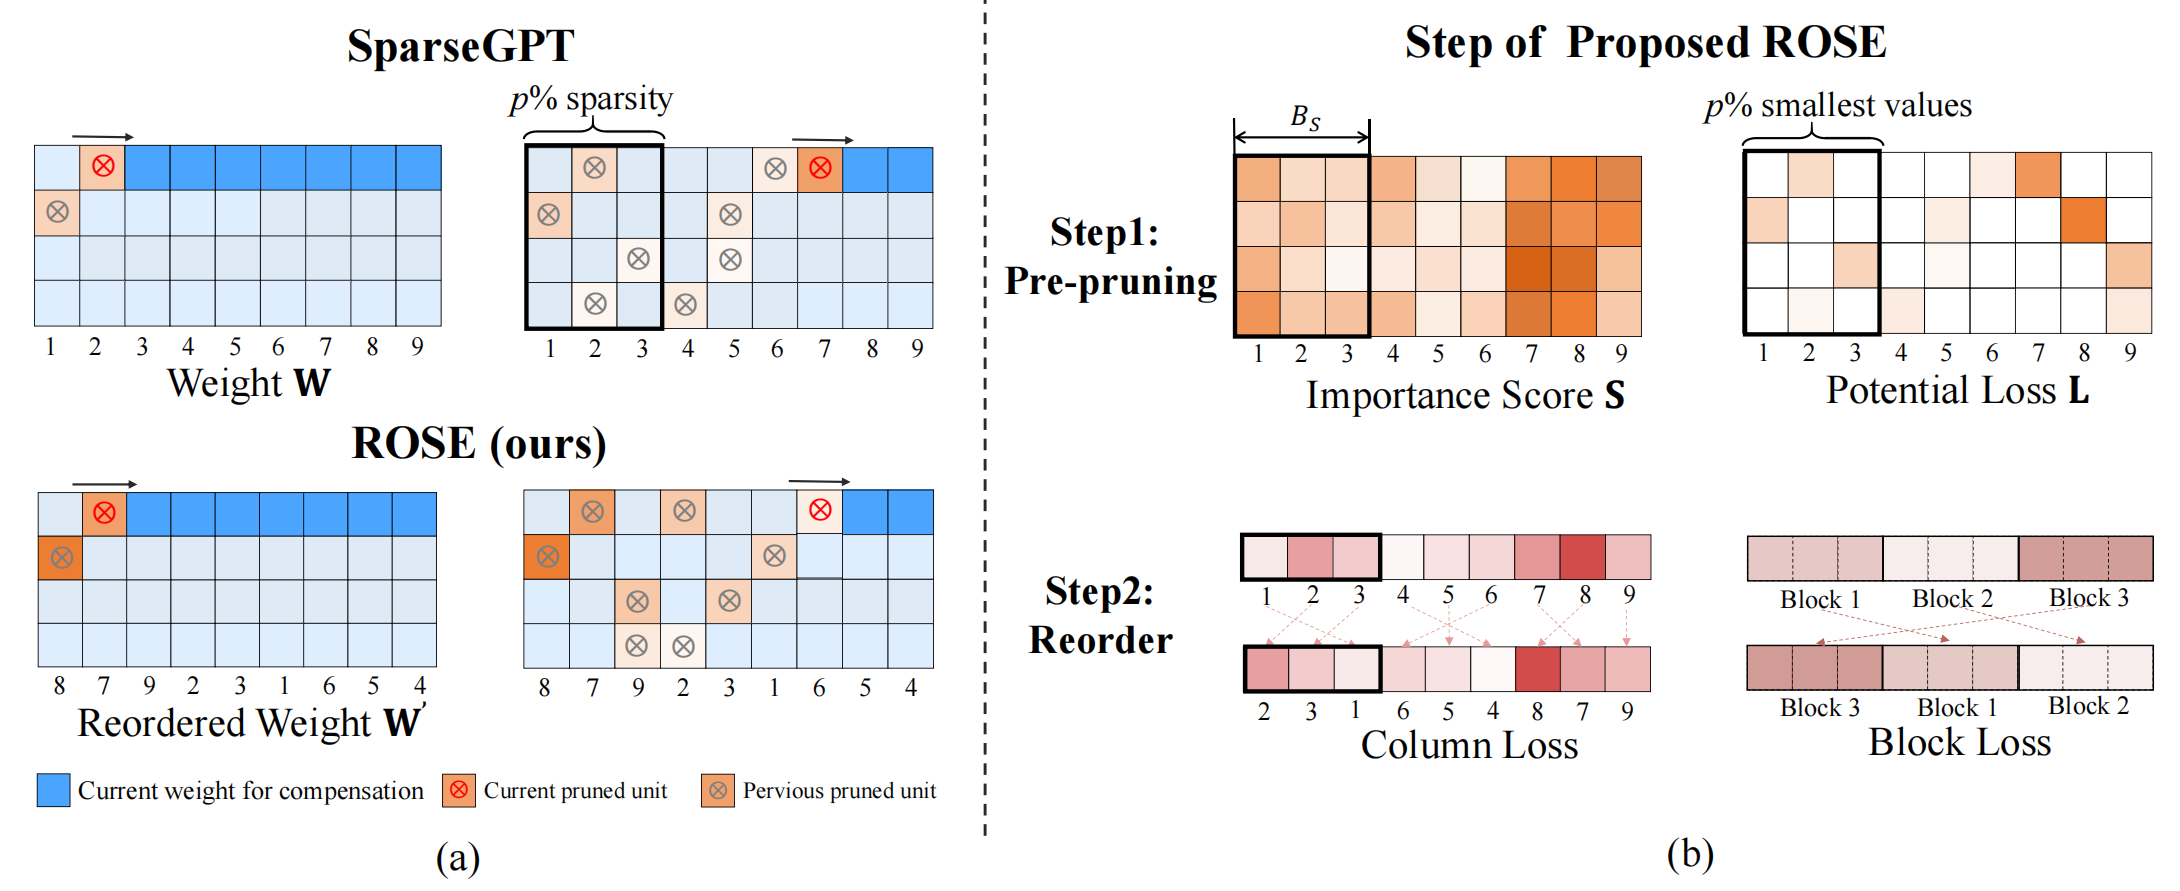
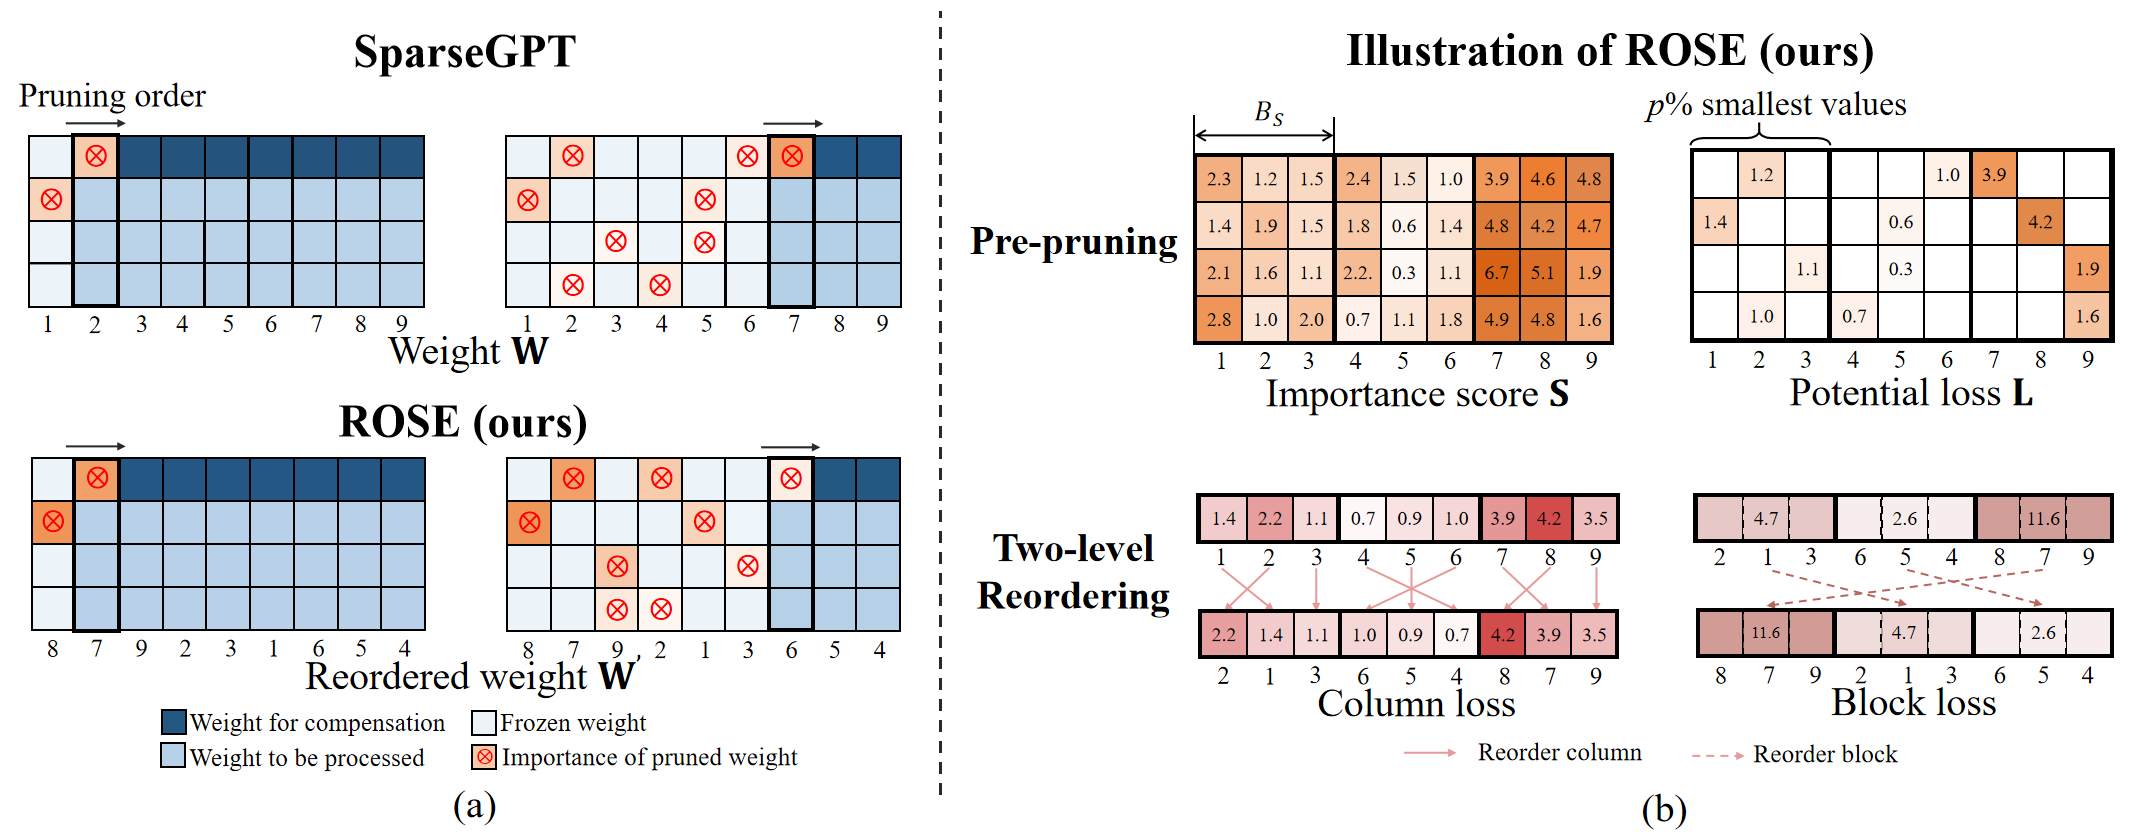
update

diff --git a/README.md b/README.md
@@ -2,22 +2,21 @@
 <img src="imgs/rose.png" width="20%"> <br>
 </p>
 
-
 <div align="center">
 
 # ROSE: Reordered SparseGPT for More Accurate One-Shot Large Language Models Pruning
 
-<h3> CPAL 2026</h3>
+<h3> CPAL 2026 oral</h3>
 
 <a href="https://arxiv.org/abs/2510.06751">
 <img alt="Paper" src="https://img.shields.io/badge/Paper-Arxiv%20Link-light">
-<a href="https://sunshine-0903.github.io/ROSE-Webpage/">
+<a href="https://mingluo-su.github.io/ROSE-Webpage/">
 <img alt="Webpage" src="https://img.shields.io/badge/Webpage-blue">
 <a href="https://opensource.org/licenses/Apache-2.0">
 <img alt="Code License" src="https://img.shields.io/badge/Code%20License-Apache_2.0-yellow.svg">
 </a>
 
-**[Mingluo Su](https://sunshine-0903.github.io/)**<sup>1</sup>, **[Huan Wang](https://huanwang.tech/)**<sup>1*</sup>
+**[Mingluo Su](https://mingluo-su.github.io/)**<sup>1</sup>, **[Huan Wang](https://huanwang.tech/)**<sup>1*</sup>
 
 <sup>1</sup>Westlake University
 <br>
@@ -33,7 +32,7 @@
 <div align="left">
   <img src="./imgs/overview.png" width="100%">
   <br>
-  (a) Illustration of the difference between SparseGPT and ROSE. Orange color represents weight importance, and the darker the color, the greater the importance. In SparseGPT, the number of weights available for error compensation (shown in dark blue) decreases during pruning, limiting recovery if high-error weights are pruned late. ROSE reorders those with potentially large pruning errors to the front to be pruned earlier. In this way, more parameters remain available for larger error compensation. (b) Step of our proposed ROSE. Given the dense weight matrix <strong>W</strong>, we calculate the importance score matrix <strong>S</strong> and split it into blocks based on block size <strong>B<sub>S</sub></strong>. The smallest <em>p</em>% of values from each block are selected as the loss matrix <strong>L</strong>. Column loss and block loss are calculated based on the loss matrix. Columns within one block are reordered in descending order by column scores, and blocks are reordered in descending order by block scores.
+  (a) Overview of the difference between SparseGPT and ROSE. Orange color represents weight importance, and the darker the color, the greater the importance. In SparseGPT, the number of weights available for error compensation (shown in dark blue) decreases during pruning, limiting recovery if high-error weights are pruned late. ROSE reorders those with potentially large pruning errors to the front to be pruned earlier. In this way, more parameters remain available for larger error compensation. (b) Illustration of our proposed ROSE. Given the dense weight matrix <strong>W</strong>, we calculate the importance score matrix <strong>S</strong> and split it into blocks based on block size <strong>B<sub>S</sub></strong>. The smallest <em>p</em>% of values from each block are selected as the loss matrix <strong>L</strong>. Column loss and block loss are calculated based on the loss matrix. Columns within one block are reordered in descending order by column scores, and blocks are reordered in descending order by block scores.
 </div>
 
 
@@ -42,7 +41,7 @@
 ### 1. Install environment
 
 ```bash
-git clone https://github.com/sunshine-0903/ROSE
+git clone https://github.com/mingluo-su/ROSE
 cd ROSE
 pip install -r requirements.txt
 ```
@@ -67,7 +66,7 @@ python main.py \
 ## ❤Acknowledgements
 
 - This source code is derived from the famous PyTorch reimplementation of [SparseGPT](https://github.com/IST-DASLab/sparsegpt), [Wanda](https://github.com/locuslab/wanda), [DSnoT](https://github.com/zyxxmu/DSnoT), [Rethinking LLM pruning](https://github.com/LOG-postech/rethinking-LLM-pruning), and [GPTAQ](https://github.com/Intelligent-Computing-Lab-Panda/GPTAQ). We thank them for their excellent open-source contributions.
-- The README file is inspired by [SparseSSM](https://github.com/CFinTech/SparseSSM),[OBS-Diff](https://github.com/Alrightlone/OBS-Diff) and [MergeMix](https://github.com/JinXins/MergeMix)
+- The README file is inspired by [SparseSSM](https://github.com/CFinTech/SparseSSM), [OBS-Diff](https://github.com/Alrightlone/OBS-Diff) and [MergeMix](https://github.com/JinXins/MergeMix).
 
 
 ## 🤗 Citation
